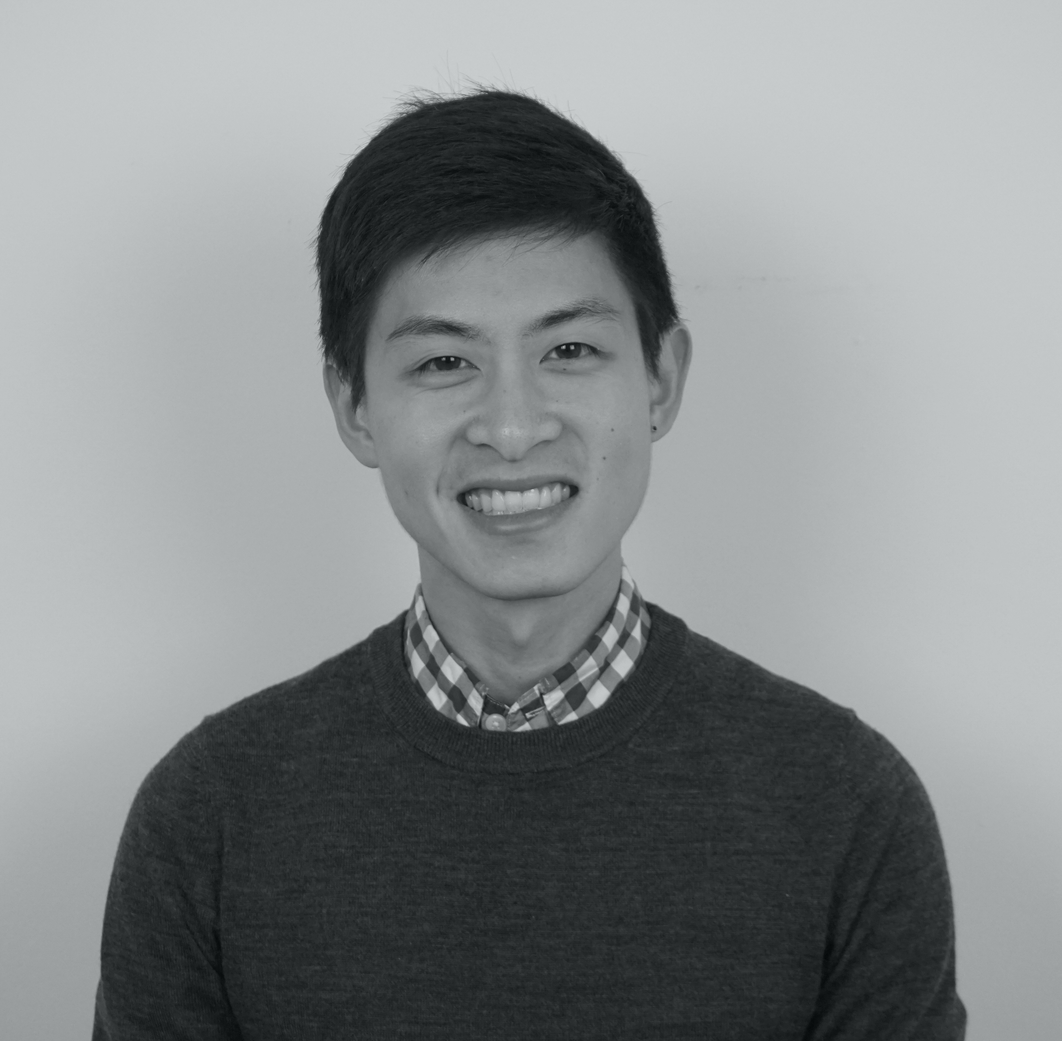
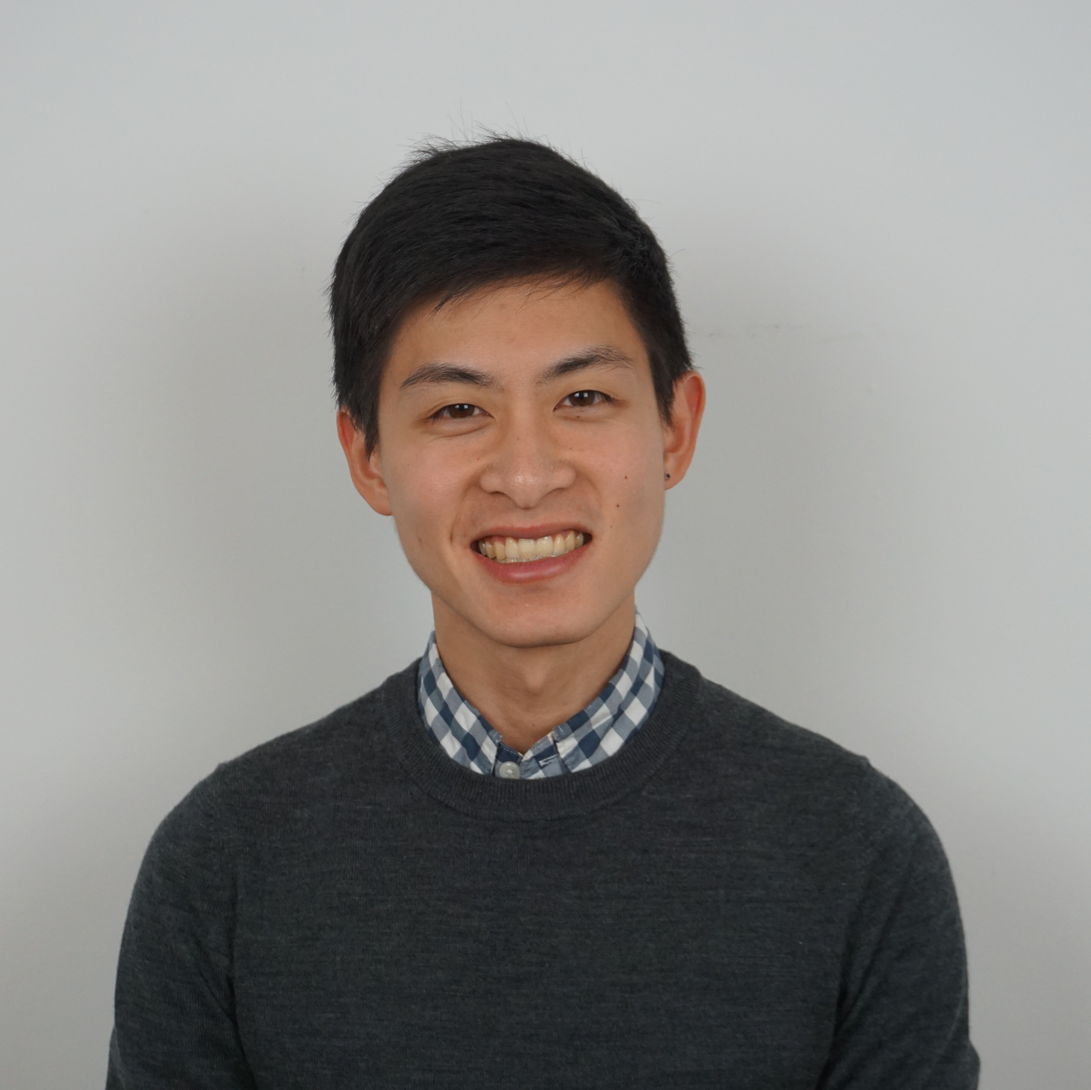
Change picture to color

Changed region(s): [[0.0623, 0.0625, 0.9341, 1.0]]

diff --git a/index.html b/index.html
@@ -156,7 +156,7 @@
                               
                             </td>
                             
-                            <td class="title"> <a href="https://angel.co/mike-shen-4" style="text-decoration: underline; color: blue;">AngelList</a></td>
+                            <td class="title"> <a href="https://michaelshen.dev/journey-of-arabica" style="text-decoration: underline; color: blue;">AngelList</a></td>
                           </tr>
                           
                         </table>
